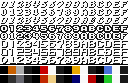
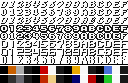
fonts fonts FONTS

Changed region(s): [[0.0, 0.6747, 1.0, 0.7711]]

diff --git a/docs/index_next.html b/docs/index_next.html
@@ -656,8 +656,10 @@
 								<li><span class="fontName">Lufia 2</span><span class="fontPreview font10"></span></li>
 								<li><span class="fontName">Goonies 2</span><span class="fontPreview font11"></span></li>
 								<li><span class="fontName">Emerald <i>(Pokémon Emerald)</i></span><span class="fontPreview font12"></span></li>
-								<li><span class="fontName">TI-83</span><span class="fontPreview font13"></span></li>
-								<li><span class="fontName">Pac-Man <i>(Pac-Man Arrangement)</i></span><span class="fontPreview font14"></span></li>
+								<li><span class="fontName">Klonoa</span><span class="fontPreview font13"></span></li>
+								<li><span class="fontName">TI-83</span><span class="fontPreview font14"></span></li>
+								<li><span class="fontName">Pac-Man <i>(Pac-Man Arrangement)</i></span><span class="fontPreview font15"></span></li>
+								<li><span class="fontName">DOOM <i>(GBA version)</i></span><span class="fontPreview font16"></span></li>
 							</ul>
 						</dd>
 					</dl>
